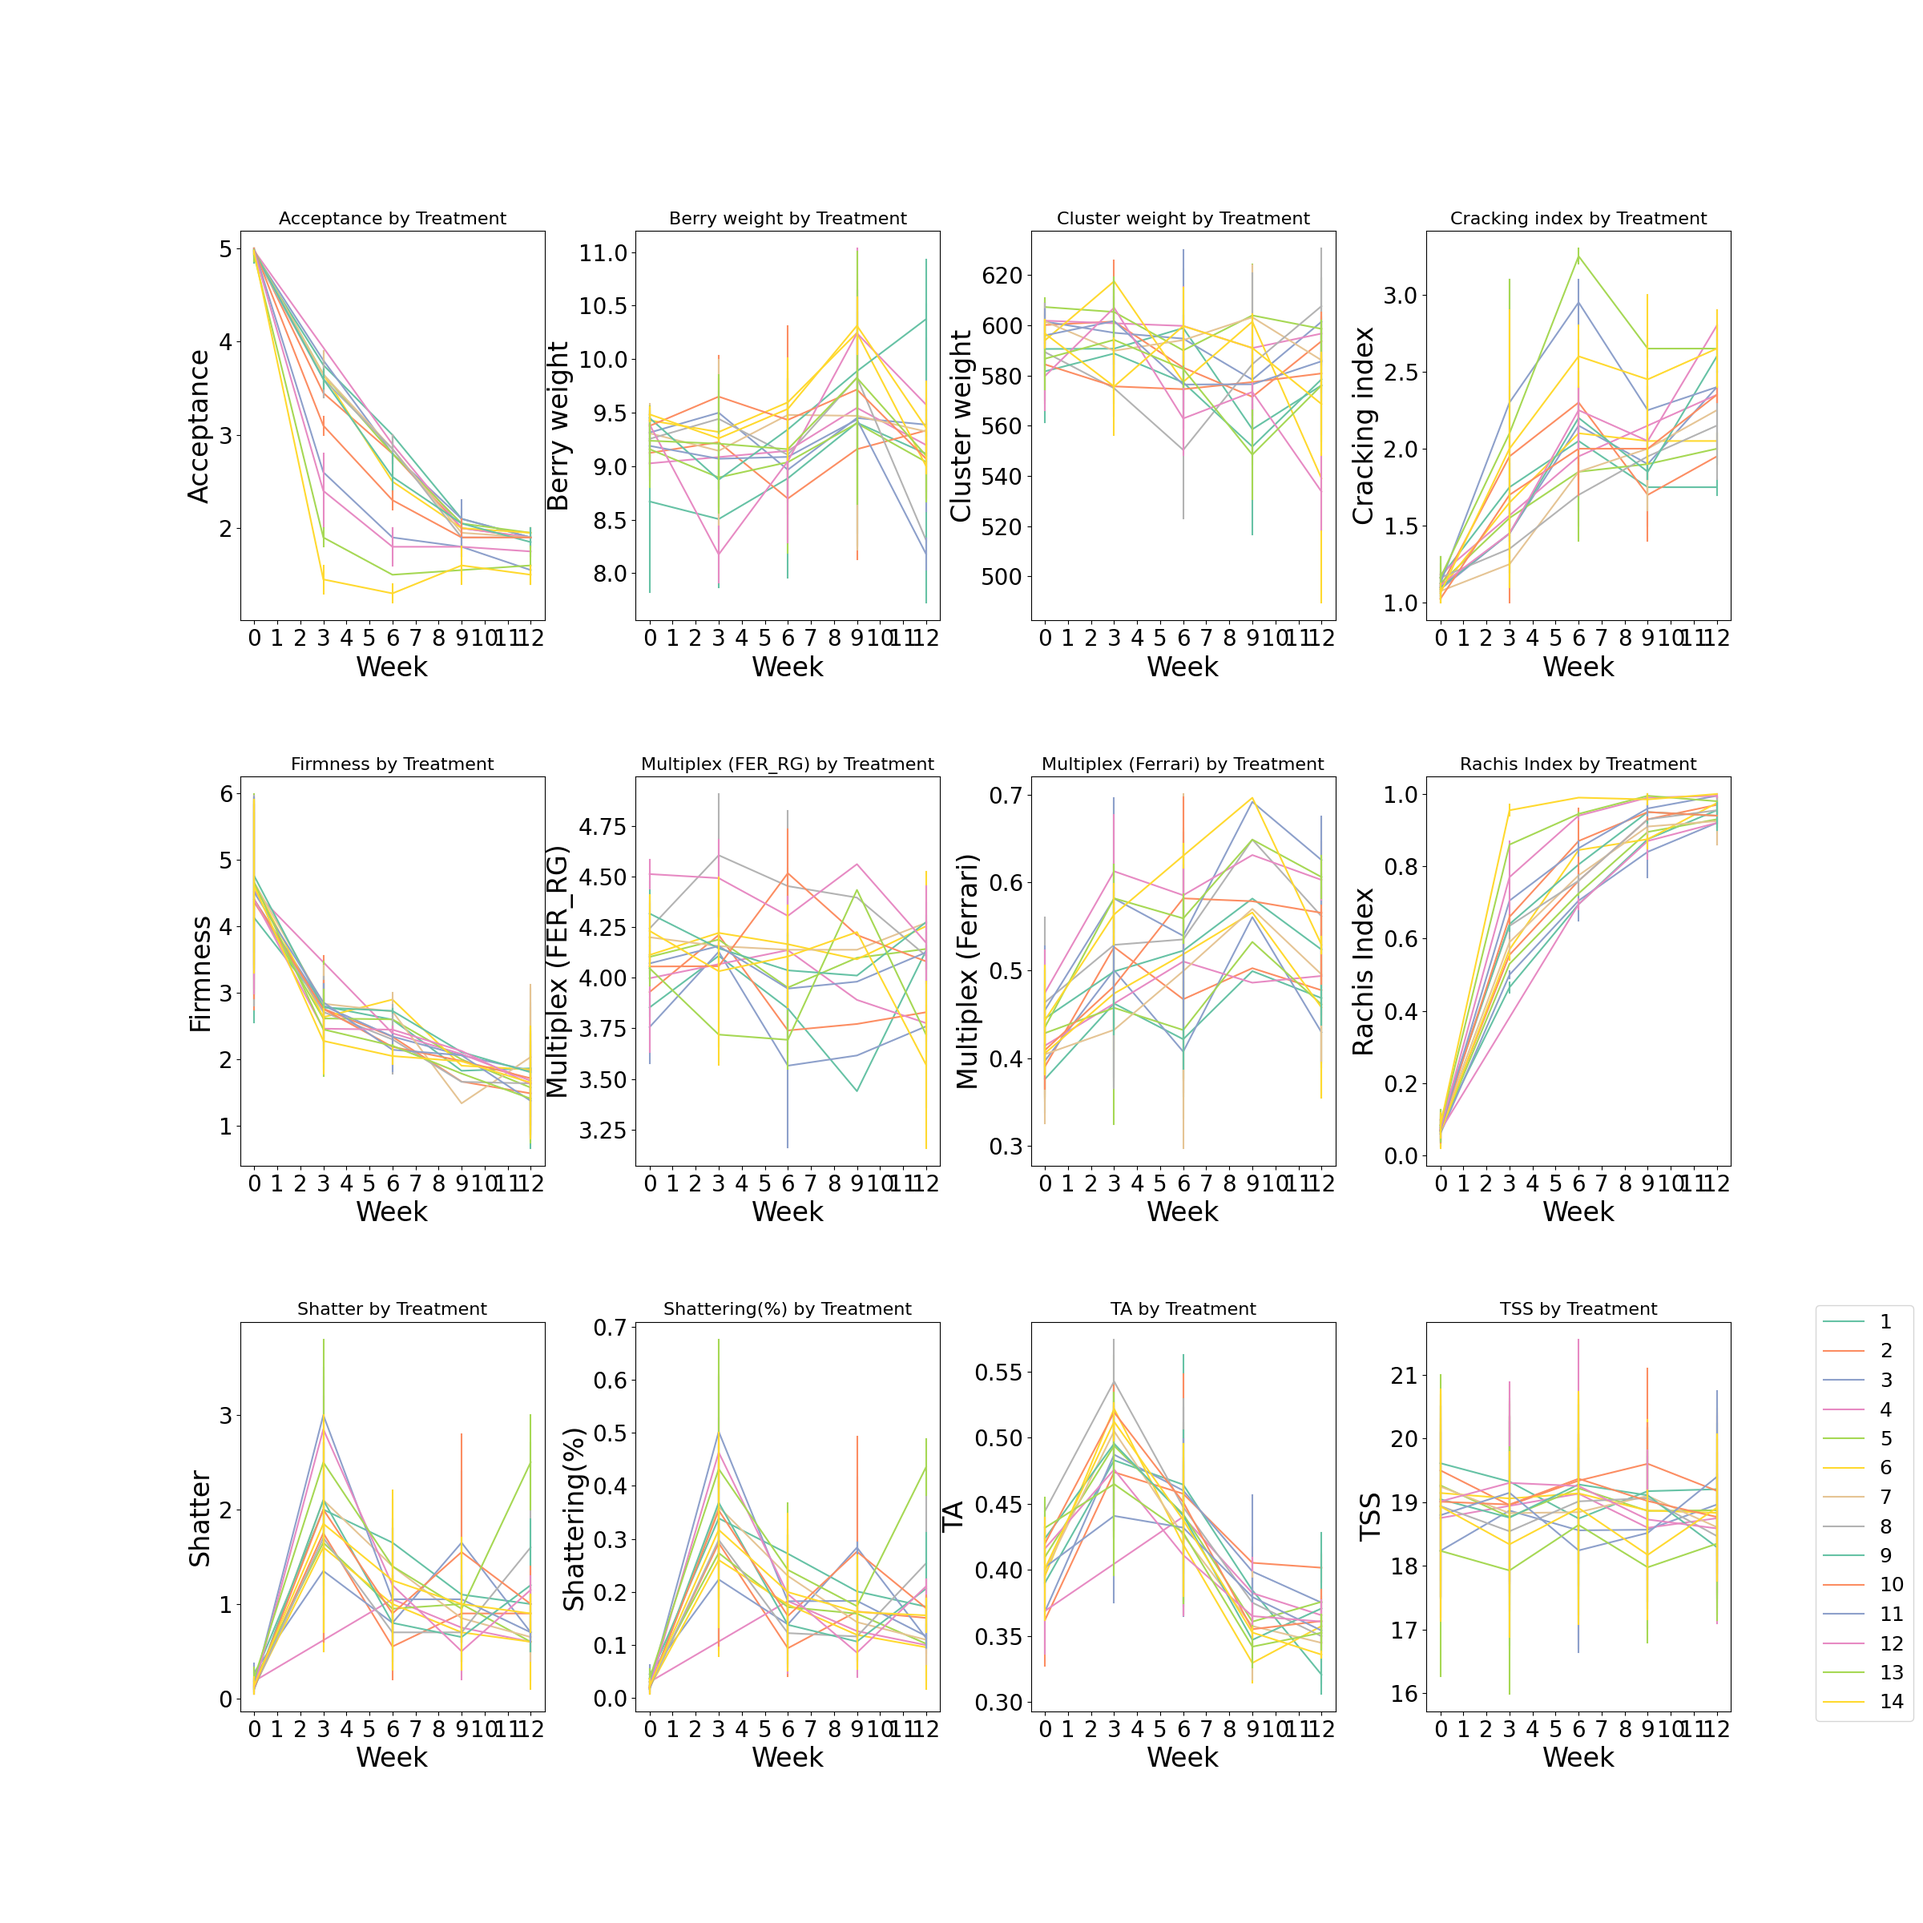
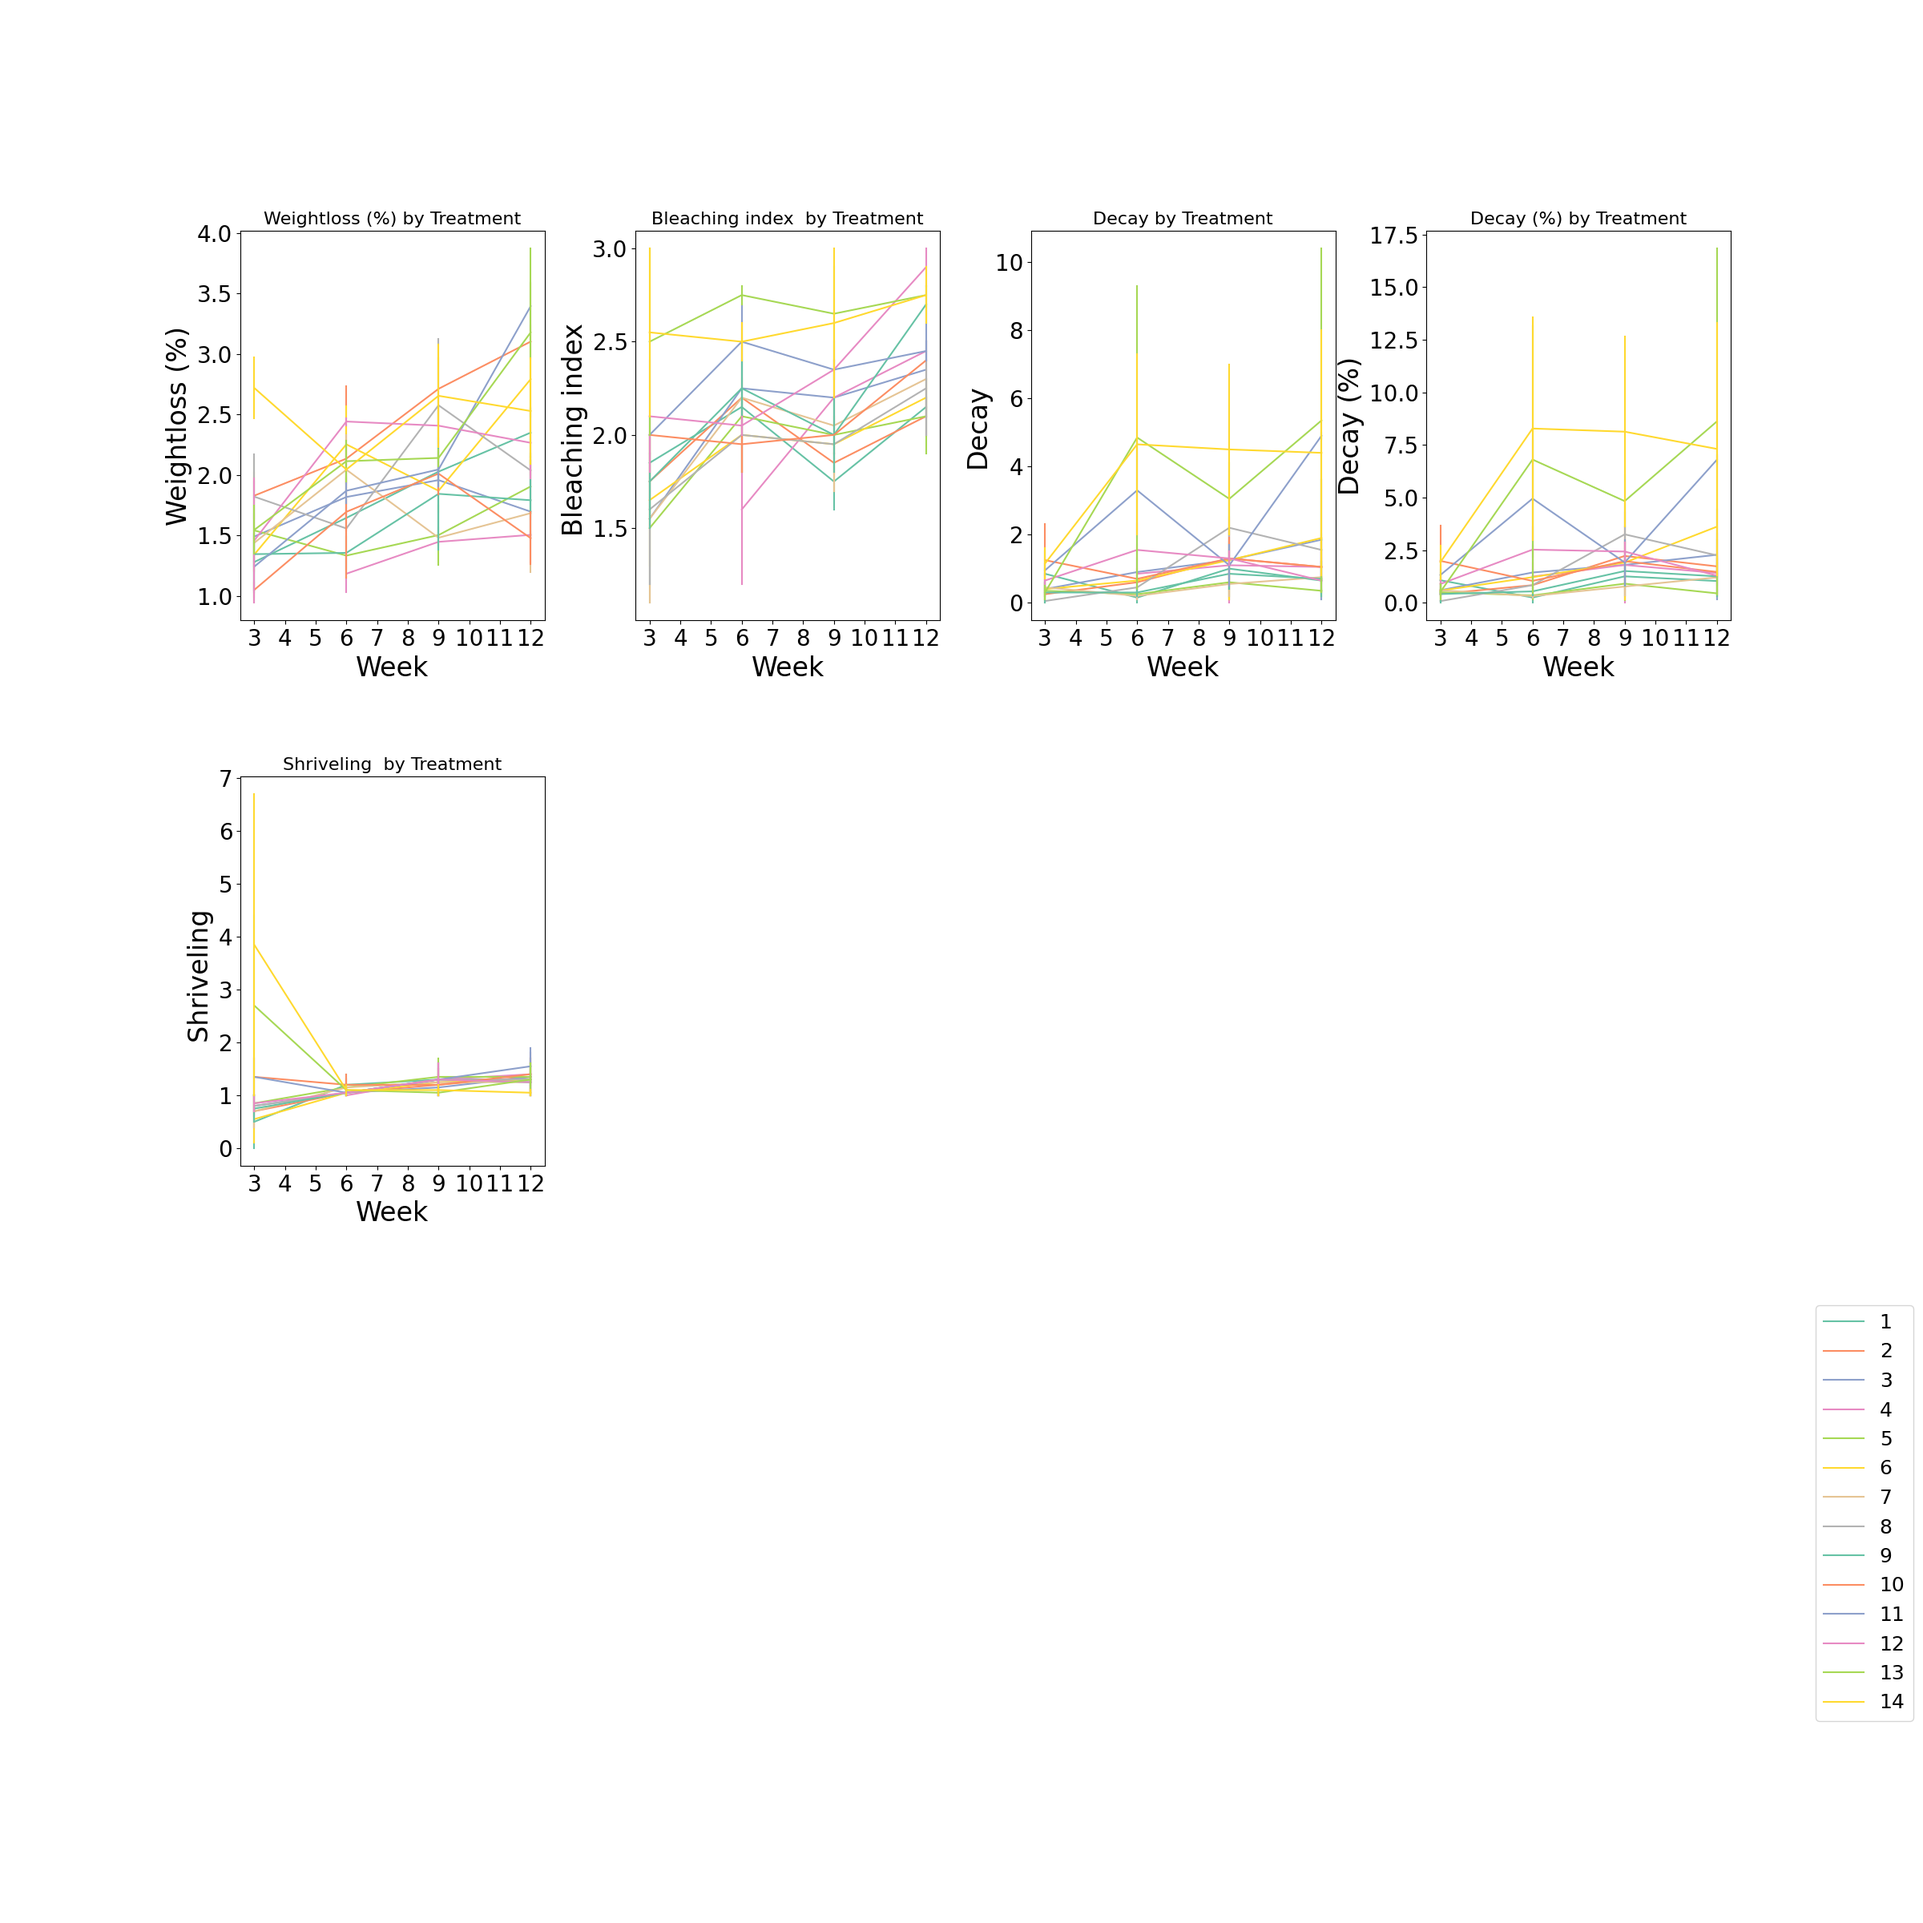
adding folded by dimension matrix

diff --git a/main.py b/main.py
@@ -493,12 +493,77 @@ def create_all_subplots_per_each_fruit_feature(features_list: list, full_storage
                 i_print += 1
                 if len(plot_data_df):
                     ax.get_legend().remove()
+
         handles, labels = ax.get_legend_handles_labels()
         fig.legend(handles, labels, fontsize=18, loc='lower right', bbox_to_anchor=(1, 0.1))
         fig2 = plt.gcf()
         plt.show()
         plt.draw()
         fig2.savefig('features_by_matrix/' + str(data_place_in_dict) + '_' + feature + '_' + str(i) + '.png')
+
+
+def create_all_subplots_per_each_fruit_feature_folded_dim(features_list: list, full_storage_data: pd.DataFrame,
+                                               data_place_in_dict: int,
+                                               features_list_t0: list = None, dimension_list=DIMS_FOR_GRAPHS
+                                               ):
+    '''
+
+    :return: number of facets, in each facet there will be subplots
+    '''
+    temp_dim_list = copy.copy(DIMS_FOR_GRAPHS)
+    temp_dim_list.remove("new_time")
+
+    # Compute Rows required
+    # Changes depends on the folded dim
+    Cols = full_storage_data['disruption_length'].nunique()
+    Rows = 1 # full_storage_data['disruption_temperature'].nunique()
+
+    data = (features_list, features_list_t0, range(len(features_list)))
+    if features_list_t0 is None:
+        data = (features_list, range(len(features_list)))
+
+    # loop for each feature
+    for i, feature in enumerate(data[0]):
+        # if we print by temp then 6,24
+        # fig = plt.figure(figsize=(6, 24))
+        fig = plt.figure(figsize=(24, 4.8))
+        fig.subplots_adjust(hspace=0.4, wspace=0.3)
+        i_print = 1
+        # loop for each combination of length & temp
+        # for tup in zip(*data):
+        data_for_grpah = flatten_data_to_grpah(dim_list=dimension_list, df=full_storage_data, col_name=data[0][i],
+                                               col_name_t0=data[1][
+                                                   i] if features_list_t0 is not None else None)  # take t0 data if exist
+        data_for_grpah['new_time'] = data_for_grpah['new_time'] * 3
+        ylim = (data_for_grpah.iloc[:, -1].quantile(0.01), data_for_grpah.iloc[:, -1].quantile(0.99))
+
+        # choose one of the for loop depands on the folded dim
+        # for temp in sorted(full_storage_data['disruption_temperature'].unique()):
+        for length in sorted(full_storage_data['disruption_length'].unique()):
+                data_for_grpah['disruption_length'] = np.where(data_for_grpah['disruption_length'] == 12, 0,
+                                                               data_for_grpah['disruption_length'])
+                ax = fig.add_subplot(Rows, Cols, i_print)
+
+                #chhose one of the plot_data_df based on the folded dim
+                # plot_data_df = data_for_grpah[(data_for_grpah['disruption_temperature'] == temp)]
+                plot_data_df = data_for_grpah[(data_for_grpah['disruption_length'] == length)]
+
+                plot_graph(df=plot_data_df, col_name=data[0][i], dim_list=dimension_list, hue='Vineyard',
+                           # tmp_dim_list=temp_dim_list, axs=ax, dist_week='_',dist_temp=temp, ytickslim=ylim)
+                           tmp_dim_list=temp_dim_list, axs=ax, dist_week=length, dist_temp='_', ytickslim=ylim)
+                i_print += 1
+                if len(plot_data_df):
+                    ax.get_legend().remove()
+
+        # handles, labels = ax.get_legend_handles_labels()
+        # fig.legend(handles, labels, fontsize=18, loc='lower right', bbox_to_anchor=(1, 0.1))
+        fig2 = plt.gcf()
+        plt.show()
+        plt.draw()
+        fig2.savefig('features_by_folded_dim/' + str(data_place_in_dict) + '_' + feature + '_' + str(i) + '.png')
+        # break
+
+
 
 
 if __name__ == '__main__':
@@ -510,8 +575,8 @@ if __name__ == '__main__':
     storage_list = list((Counter(full_data_w_storage) - Counter(COLS_ONLY_OUT) - Counter(relevant_t0_cols) - Counter(
         relevant_cols) - Counter(NOT_PRINT_TRENDS) - Counter(COLS_HUE)).elements())
 
-    data_to_plot = {#1: [relevant_cols, relevant_t0_cols],  # data that collected both in and out
-                    2: [COLS_ONLY_OUT, 'None'],  # data collected only in out storage
+    data_to_plot = {1: [relevant_cols, relevant_t0_cols],  # data that collected both in and out
+                     # 2: [COLS_ONLY_OUT, 'None'],  # data collected only in out storage
                     #3: [storage_list, 'None']  # data relevant for storage only
                     }
 
@@ -519,7 +584,7 @@ if __name__ == '__main__':
     #     create_all_subplots(features_list=feature_list[1][0], full_storage_data=full_data_w_storage,
     #                         features_list_t0=feature_list[1][1] if feature_list[1][1] != 'None' else None,
     #                         dimension_list=DIMS_FOR_GRAPHS, ncols=4, data_place_in_dict=feature_list[0])
-    #
+
 
     # matrix plotting
     # for feature_list in enumerate(data_to_plot.values()):
@@ -527,7 +592,14 @@ if __name__ == '__main__':
     #                             features_list_t0=feature_list[1][1] if feature_list[1][1] != 'None' else None,
     #                             dimension_list=DIMS_FOR_GRAPHS, data_place_in_dict=feature_list[0])
 
+
+    # folded matrix plotting
+    for feature_list in enumerate(data_to_plot.values()):
+        create_all_subplots_per_each_fruit_feature_folded_dim(features_list=feature_list[1][0], full_storage_data=full_data_w_storage,
+                                features_list_t0=feature_list[1][1] if feature_list[1][1] != 'None' else None,
+                                dimension_list=DIMS_FOR_GRAPHS, data_place_in_dict=feature_list[0])
+
     # # create correlation matrix
-    in_cols = [col for col in raw_data.columns if 'T0' in col and col!= 'Shattering(%) (T0)']
-    create_pearson_correl(raw_data, col_list_in=in_cols, col_list_out=COLS_OUT)
+    # in_cols = [col for col in raw_data.columns if 'T0' in col and col!= 'Shattering(%) (T0)']
+    # create_pearson_correl(raw_data, col_list_in=in_cols, col_list_out=COLS_OUT)
     print("Done!!!")
